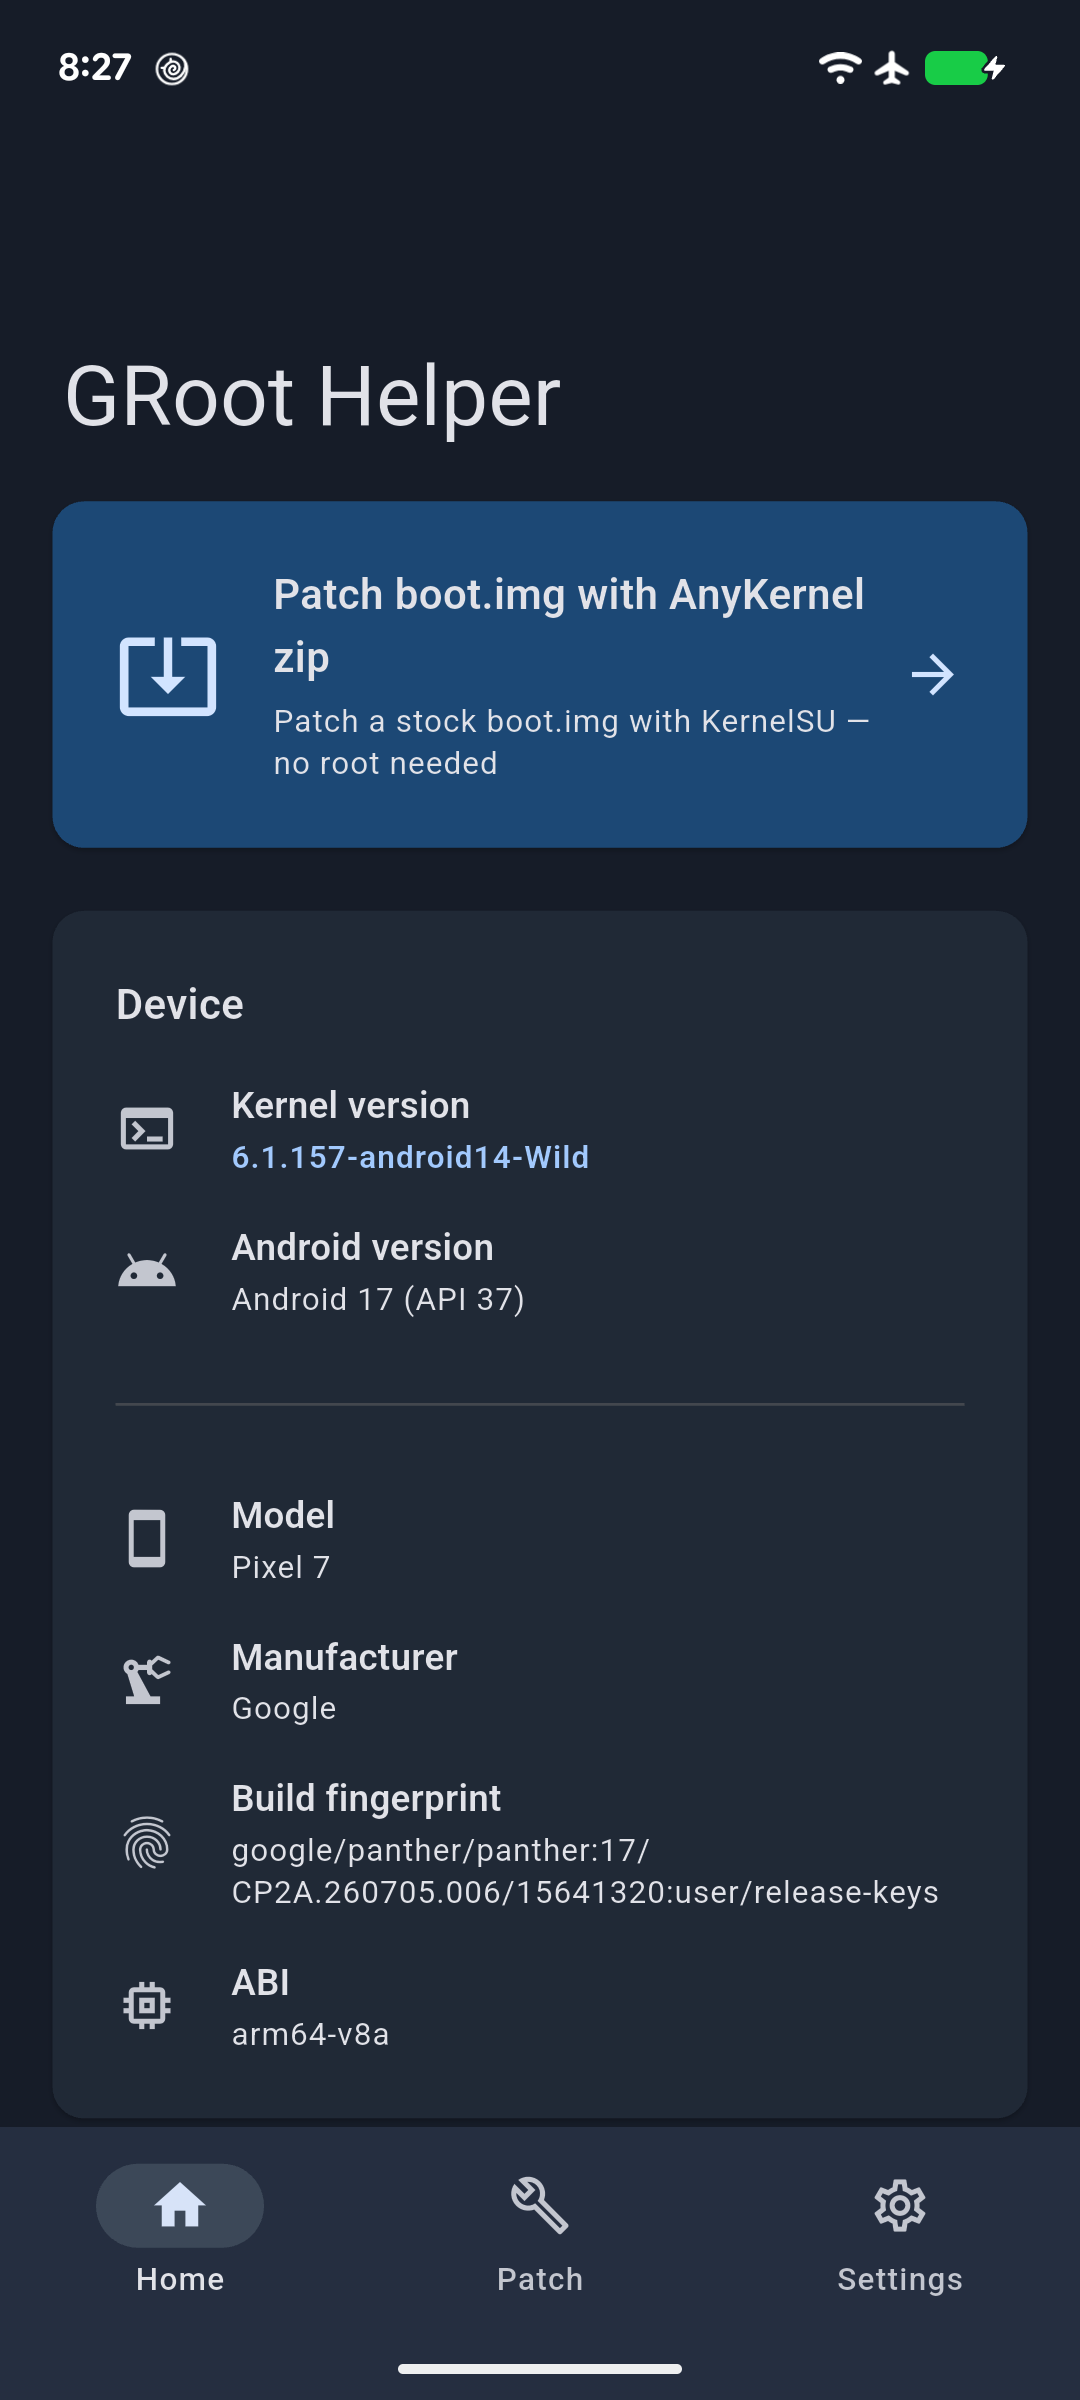
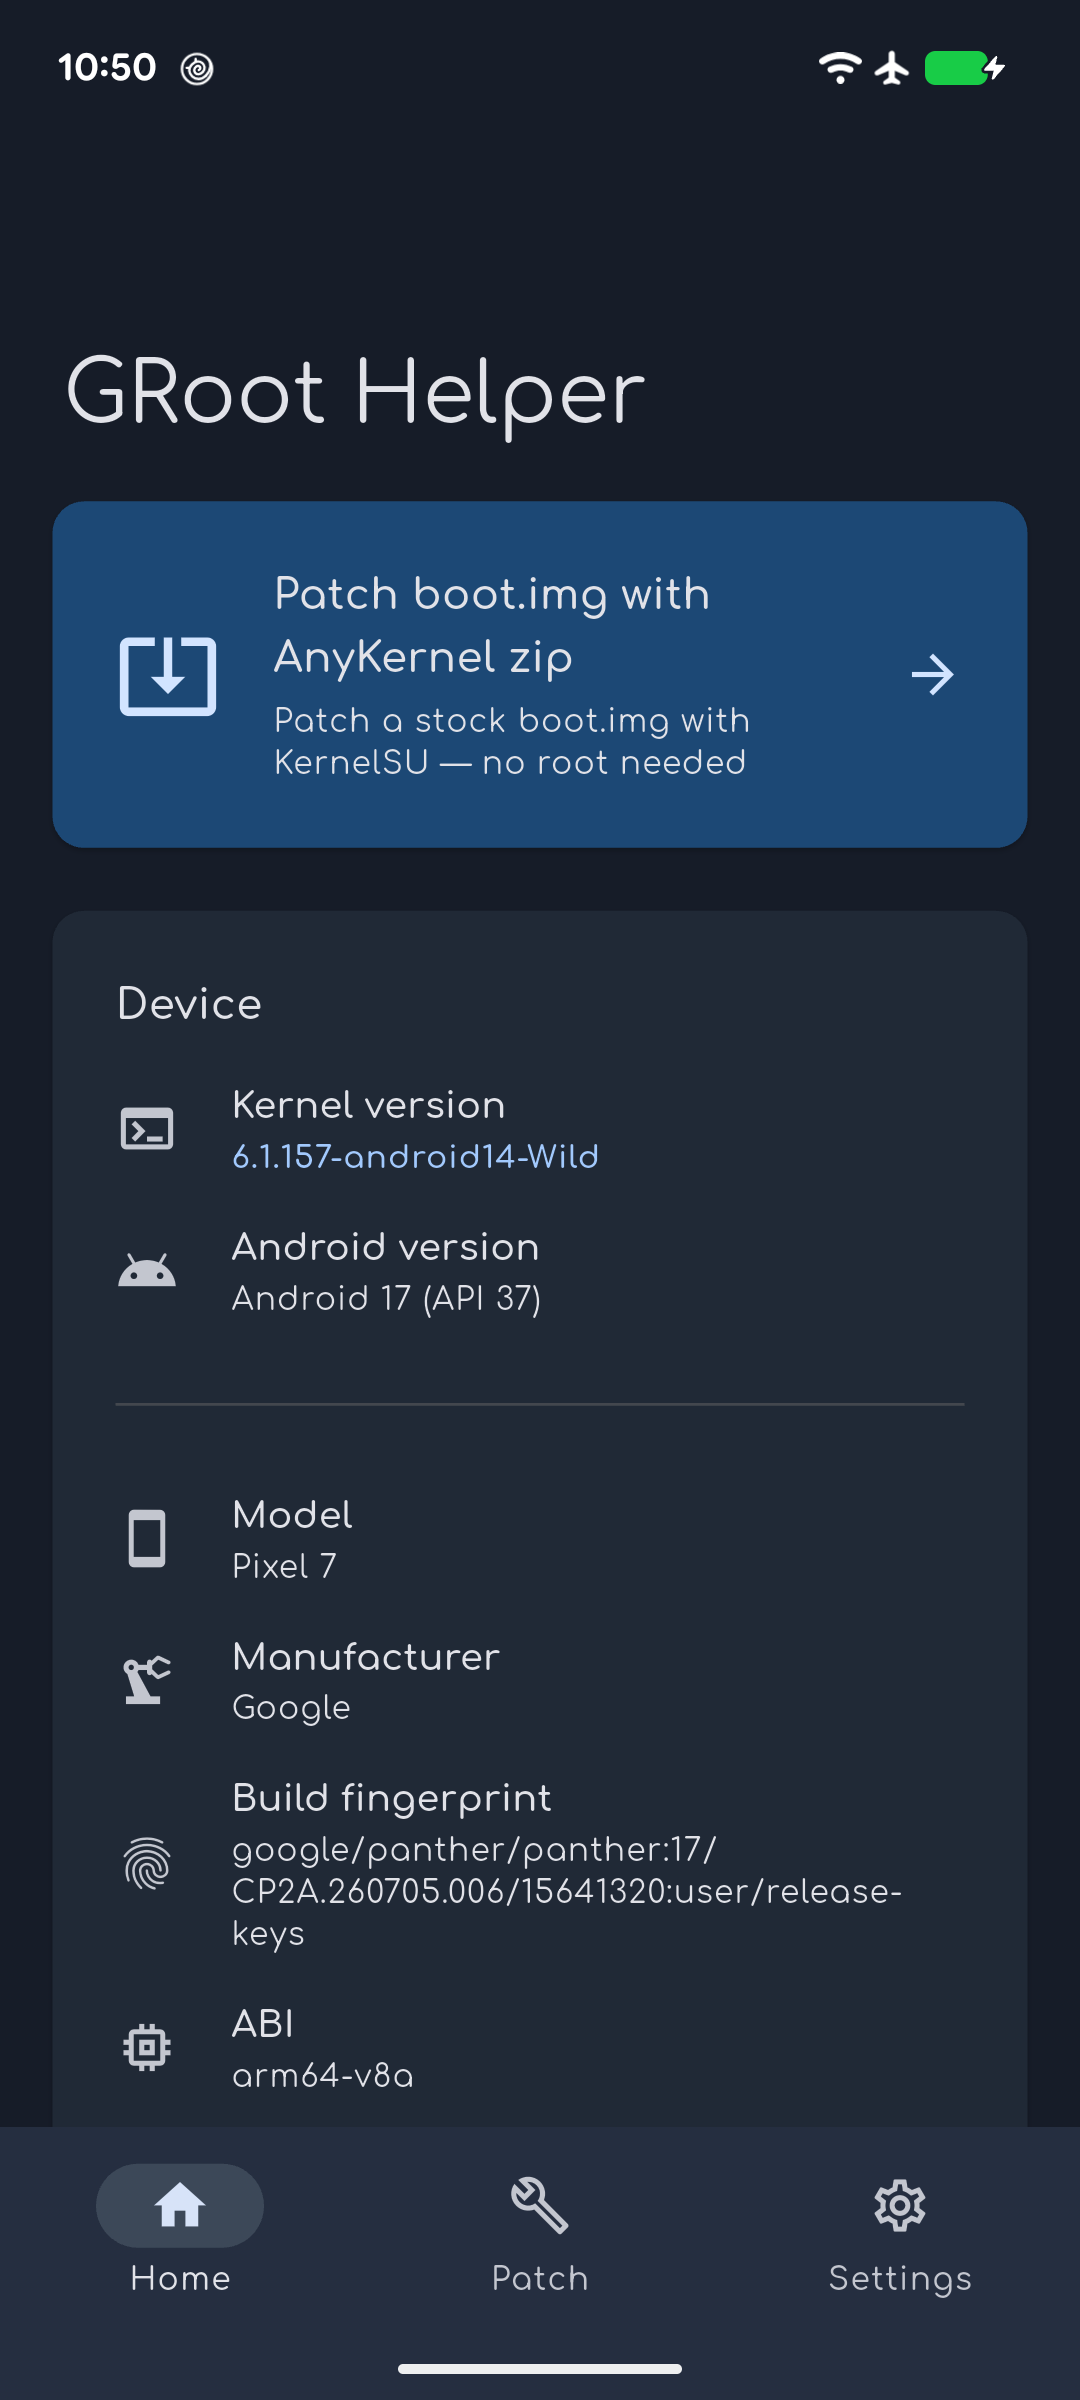
docs: real-flow screenshots — boot selection, zip selection/verify, patching, patched+flash guide

diff --git a/README.md b/README.md
@@ -16,9 +16,13 @@
   <img src="https://img.shields.io/badge/flutter-3.47.4-blue" alt="Flutter 3.47.4">
 </p>
 
-| Home | Disclaimer | Settings | Credits |
+| Home | Boot selection | Zip selection | Patching |
 |---|---|---|---|
-| ![Home](docs/screenshots/home.png) | ![Disclaimer](docs/screenshots/disclaimer.png) | ![Settings](docs/screenshots/settings.png) | ![Credits](docs/screenshots/credits.png) |
+| ![Home](docs/screenshots/home.png) | ![Boot selection](docs/screenshots/boot-selection.png) | ![Zip selection](docs/screenshots/zip-selection.png) | ![Patching](docs/screenshots/patching.png) |
+
+| Patched & flash guide | Disclaimer | Settings | Credits |
+|---|---|---|---|
+| ![Patched](docs/screenshots/patched.png) | ![Disclaimer](docs/screenshots/disclaimer.png) | ![Settings](docs/screenshots/settings.png) | ![Credits](docs/screenshots/credits.png) |
 
 ## What it does
 
